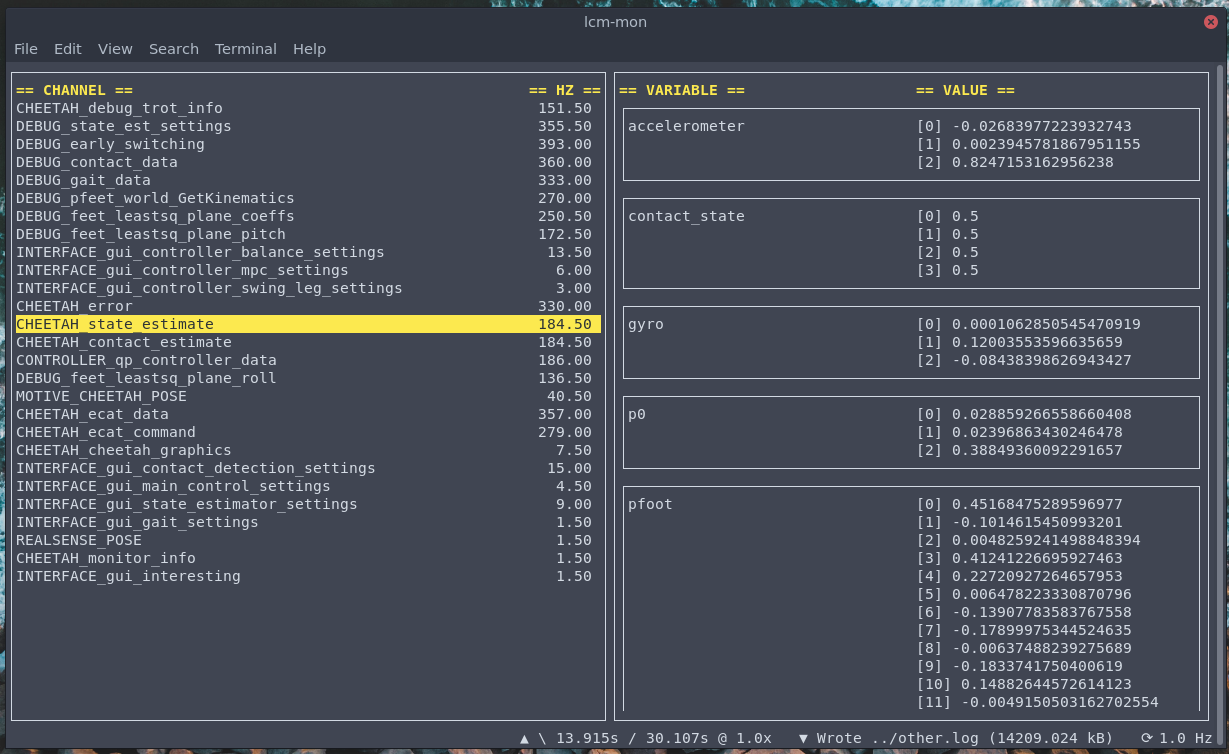
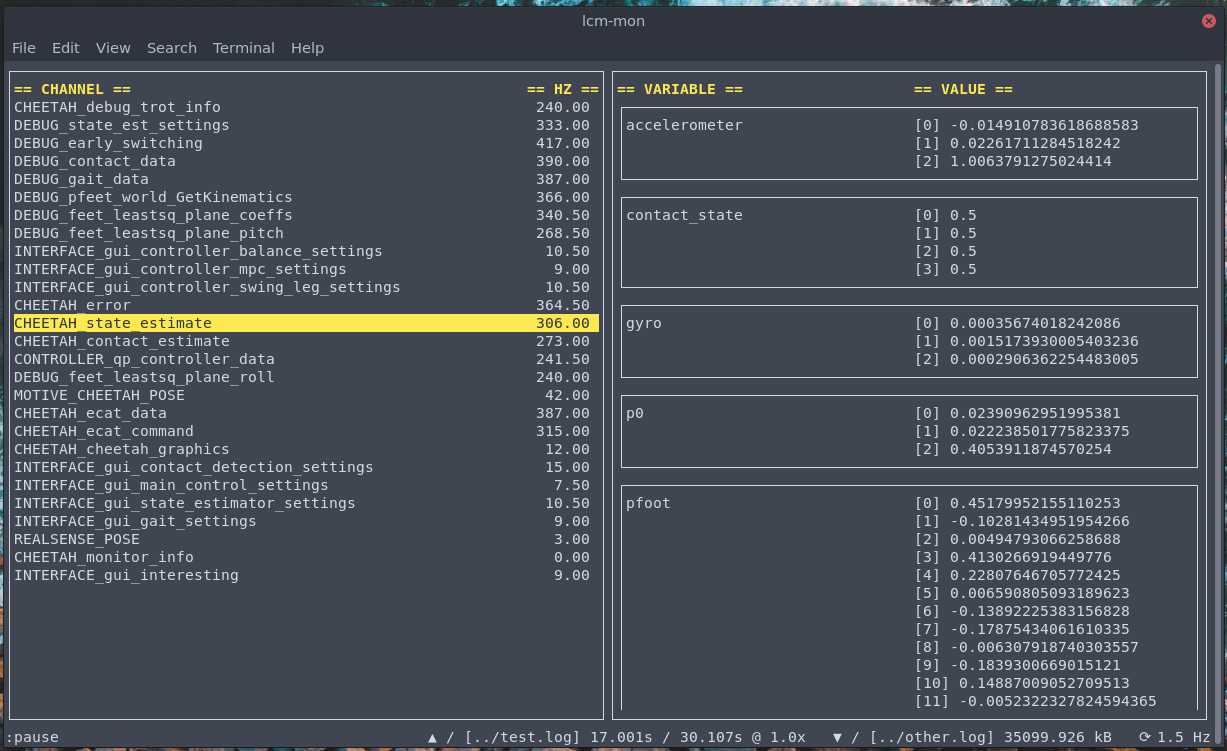
Added to README.md, added configuration possibilities, aesthetic changes

diff --git a/lcm_mon/widgets.py b/lcm_mon/widgets.py
@@ -123,9 +123,9 @@ class Table(Database):
 
 class LCMStatusBar(StatusBar):
     def __init__(self):
-        self._read_format = u"\u25b2 {} {:.3f}s / {:.3f}s @ {}x"
-        self._write_format = u"   \u25bc {} {:.3f} kB"
-        self._dumped_format = u"   \u25bc Wrote {} ({:.3f} kB)"
+        self._read_format = u"\u25b2 {} [{}] {:.3f}s / {:.3f}s @ {}x"
+        self._write_format = u"   \u25bc {} [{}] {:.3f} kB"
+        self._dumped_format = u"   \u25bc [{}] written ({:.3f} kB)"
         self._refresh_format = u"   \u27f3 {} Hz"
         self._spinner = Spinner()
         self.spin()
@@ -160,18 +160,20 @@ class LCMStatusBar(StatusBar):
                 spin = self._spin
             else:
                 spin = u"\u00b7"
+            path = log.path()
             position = log.position()
             total = log.length()
             speed = log.get_playback_speed()
-            return self._read_format.format(spin, position, total, speed)
+            return self._read_format.format(spin, path, position, total, speed)
 
     def print_write(self, log):
         if log is None:
             return ""
         elif log.is_open():
             spin = self._spin
+            path = log.path()
             written = log.tell() / 1e3
-            return self._write_format.format(spin, written)
+            return self._write_format.format(spin, path, written)
         else:
             path = log.path()
             written = log.size() / 1e3

diff --git a/lcm_mon/network.py b/lcm_mon/network.py
@@ -140,10 +140,19 @@ def load_lcm_modules(folders):
     shutil.rmtree(lcm_dir)
     return lcm_classes
 
-def handle_lcm(node, callback=id):
-    subscription = node.subscribe(".*", callback)
-    while True:
-        node.handle()
+def handle_lcm(url=None, channels=".*", callback=id):
+    if url is None:
+        node = lcm.LCM()
+    else:
+        node = lcm.LCM(url)
+    subscription = node.subscribe(channels, callback)
+    def handler(node):
+        while True:
+            node.handle()
+    handler_thread = threading.Thread(target=handler, args=(node,))
+    handler_thread.setDaemon(True)
+    handler_thread.start()
+    return node
 
 def play_log(node, log, callback=id):
     while True:

diff --git a/setup.py b/setup.py
@@ -1,9 +1,10 @@
 #!/usr/bin/env python3
 
 from distutils.core import setup
+import os
 
 setup(name='lcm-mon',
-    version='1.1',
+    version='1.2',
     description='Monitor program for LCM',
     author='Siddharth Trehan',
     author_email='trehans@mit.edu',
@@ -15,5 +16,6 @@ setup(name='lcm-mon',
         "matplotlib",
         "numpy"
     ],
-    scripts=["bin/lcm-mon"]
+    scripts=["bin/lcm-mon"],
+    data_files=[("/etc/lcm-mon/", ["config/config.json"])]
 )

diff --git a/README.md b/README.md
@@ -6,14 +6,31 @@
 
 ![(Screenshot of lcm-mon in action)](images/preview.png)
 
-## Commands
+## Installation
+
+`lcm-mon` can be installed using the `setup.py` file:
+
+```
+sudo python3 setup.py install
+```
+
+`lcm-mon` runs on Python 3, and the following libraries need to be present on the system:
+
+* `urwid` -- for command-line UI
+* `lcm` -- communication (build LCM with Python 3 bindings enabled)
+* `matplotlib` -- for visualization
+* `numpy` -- also for visualization
+
+## Documentation
+
+### Commands
 
 The following commands are supported:
 
 * `:q[uit]` -- Quit `lcm-mon`.
 * `:l[og] [filepath]` -- Start or stop logging. If `filepath` is given, it logs to that file. Otherwise, it chooses a random filename in the current directory. Running `:l[og]` when `lcm-mon` is already logging stops logging and dumps the file.
 * `:p[lay] <filepath> [speed]` -- Play the log at `filepath`. If `speed` is given, it plays it back at that speed (default is `1.0`).
-* `:p[lay] [speed]` -- If `lcm-mon` has loaded a log to play (either currently playing or paused), set its playback speed to `speed`.
+* `:p[lay] <speed>` -- If `lcm-mon` has loaded a log to play (either currently playing or paused), set its playback speed to `speed`.
 * `:p[ause]` -- Pause playback of the currently loaded log.
 * `:p[lay]` -- Resume playback of the currently loaded log.
 * `s[eek] <position>` -- Seek to a particular position (in seconds) in a log loaded for playing. If `position` is specified as `+<value>` or `-<value>`, jump relative to the current position in the log; if `position` is specified as `<value>`, jump to that absolute position in the log.
@@ -21,3 +38,28 @@ The following commands are supported:
 * `:v[iew]` -- Graph the currently selected variable on a time-series plot. Multiple variables can be plotted by running `:v` on each variable to plot, and already plotted variables can be toggled and removed from the plot by running `:v` again.
 * `:v[iew] -` -- Stop plotting all variables currently being plotted.
 * `:c[lear]` -- Clear the display of all channels and variables.
+
+### Command-line arguments
+
+Calling `lcm-mon` from the command line takes the following form:
+
+```
+lcm-mon [options]
+```
+
+The following options are supported:
+
+* `-h`, `--help` -- Show a help message and exit
+* `-u <lcm_url`, `--url=<lcm_url>` -- Use `lcm_url` as the LCM URL. If this option is not given, the `LCM_DEFAULT_URL` environmental variable is used. If that environmental variable is also not set, then the internal default LCM URL of `"udpm://239.255.76.67:7667?ttl=1"` is used.
+* `-f <filter_regex>`, `filter=<filter_regex>` -- Filter channels that are subscribed to by using a regex. The default is to subscribe to all channels on the network, or the regex `".*"`.
+* `-t <types_dir>`, `--types=<types_dir>` -- Location of a directory containing `.lcm` types files, used to inspect variables inside individual LCM messages. `lcm-mon` recursively finds all `.lcm` files in this directory and compiles them itself to load all type definitions. Multiple directories can also be specified as space-separated values with this option. The default is to not load any type definitions. Note that `lcm-mon` will still be able to capture messages without knowing their types, but any messages that can't be decoded will be shown as blank on the right-hand panel.
+* `-c <config_file>`, `--config=<config_file>` -- Location of the configuration file to specify personal preferences. The default configuration file location is at `~/.config/lcm-mon/config.json`. Structure of this JSON file is described in the "Configuration" section below.
+
+### Configuration
+
+By default, the configuration is read as a JSON file from `~/.config/lcm-mon/config.json` (a different file can be loaded with the `-c` command-line argument). When `lcm-mon` is installed, a default configuration file is written to `/etc/lcm-mon/config.json`, but this is not read -- to activate your configuration, copy it over to the default search location of `~/.config/lcm-mon/config.json` and edit it there. If a configuration file is not found, certain default values of variables are used.
+
+Currently, the following preference variables are supported:
+
+* `"highlight_color"` -- Color of the headers and selected entries (default is `"yellow"`). The possible values are given [here](http://urwid.org/manual/displayattributes.html#standard-foreground-colors).
+* `"default_refresh_rate"` -- Rate at which tables and graphs are refreshed, in Hz (default is `1.5`). This can also be altered during operation with the `:refresh` command.
